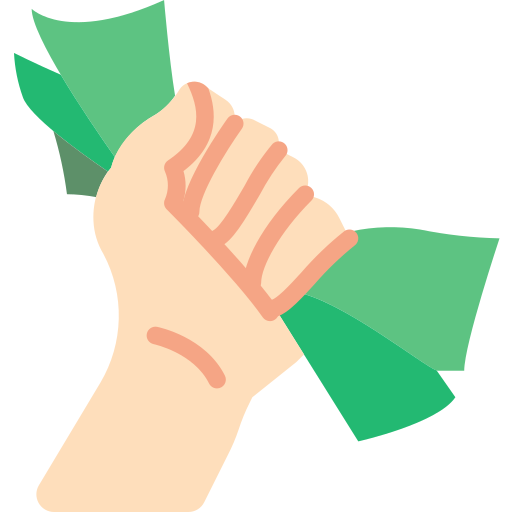
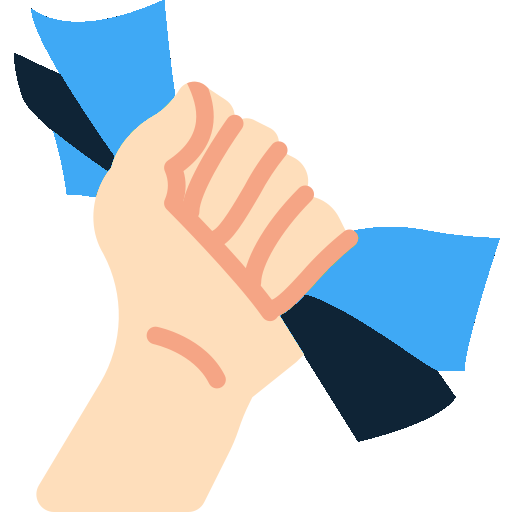
lcr

Changed region(s): [[0.5312, 0.4375, 0.9688, 0.875], [0.0312, 0.0, 0.3438, 0.4062]]

diff --git a/index.html b/index.html
@@ -36,23 +36,19 @@
   <h2 class="h1-fond">Nos Services</h2>
 
     <div class="ongletacc">
+
       <div class="onglet1">
     <p class="titre-onglet">Pronostics</p>
-    <p class="txt-onglet">Lorem ipsum dolor sit, amet consectetur adipisicing elit. Nisi rem fuga ab nesciunt voluptates tempora aspernatur possimus magnam. Porro ratione dolor iusto consequatur minima ex atque. Beatae soluta atque consequuntur?</p>
+    <p class="txt-onglet">LCRBET propose des pronostics sportifs sur différent sports, principalement le hockey sur glace et le foot, un suivi est également disponible. Les pronostics sont certains aussi issu de l'algorithme.<br> <br>Les pronostics sont 100% gratuit. </p>
     <a href="ps.html"class="btn-ong">Découvrir les pronostics</a>
-    
     </div>
+    <img src="img/betting.png" alt="" class="img-hero-bett">
       <div class="onglet2">
     <p class="titre-onglet">Algorithme de prédiction</p>
-    <p class="txt-onglet">Lorem ipsum dolor sit, amet consectetur adipisicing elit. Nisi rem fuga ab nesciunt voluptates tempora aspernatur possimus magnam. Porro ratione dolor iusto consequatur minima ex atque. Beatae soluta atque consequuntur?</p>
+    <p class="txt-onglet">L'Algorithme de prédiction est basé sur la NHL, il propose des stats général sur le match ainsi que des statistiques sur chaque équipes. Totalement gratiut il vous permettra de trouver vos inspiration pour vos paris sportifs NHL.<br><br>Pour le moment 2 équipes sont disponibles.</p>
     <a href="algo.html"class="btn-ong2"> Découvrir l'Algorithme</a>
-    
       </div>
-      <div class="onglet3">
-     <p class="titre-onglet">Casino</p>
-     <p class="txt-onglet">Lorem ipsum dolor sit, amet consectetur adipisicing elit. Nisi rem fuga ab nesciunt voluptates tempora aspernatur possimus magnam. Porro ratione dolor iusto consequatur minima ex atque. Beatae soluta atque consequuntur?</p>
-     <a href="casino.html"class="btn-ong">Découvrir le bilan</a>
-      </div>
+
     </div>
 
 
@@ -65,18 +61,18 @@
         </div>
         <div class="carre2">
           <p class="h1-res">Cote moyenne</p>
-          <p class="p-res-modif">0</p>
+          <p class="p-res-modif">0.O</p>
         </div>
         <div class="carre3">
           <p class="h1-res">Win rate</p>
-          <p class="p-res">0</p>
+          <p class="p-res">0%</p>
         </div>
         <div class="carre4">
           <p class="h1-res">Bénéfices</p>
-          <p class="p-res">0</p>
+          <p class="p-res">0€</p>
         </div> 
       </div>    
-      <h2 class="h2-res">La totalités des résultats par mois sont disponibles dans l'onglet paris sportif</h2>
+      <h2 class="h2-res">La totalités des résultats par mois sont disponibles dans l'onglet "paris sportif"</h2>
       <a href="ps.html"class="btn-ong-res">Découvrir les résultats</a>
     </div>
 

diff --git a/css/style.css b/css/style.css
@@ -10,14 +10,14 @@
 
 /* Scrollbar -------------------------------- */
 ::-webkit-scrollbar {
-  width: 15px;
+  width: 12px;
 }
 ::-webkit-scrollbar-thumb {
-  background: #EC6EAD; 
+  background: #3fa9f5; 
   border-radius: 10px;
 }
 ::-webkit-scrollbar-thumb:hover {
-  background: #ec6eadc3; 
+  background: #0f2436; 
 }
 
 
@@ -42,14 +42,10 @@ color: black;
 .ongletacc{
     display: flex;
     justify-content: center;
-    align-items: center;
-    width: 100%;
-    height: 310px;
-
+    justify-content: space-evenly;
 }
 
 .onglet1{
-    float: left;
     width: 500px;
     height: 310px;
     background-color: #3fa9f5;
@@ -57,20 +53,10 @@ color: black;
 }
 
 .onglet2{
-    display: block;
-    margin: auto;
     width: 500px;
     height: 310px;
     background-color: #0f2436;
     color:  white;
-}
-
-.onglet3{
-    float: left;
-    width: 500px;
-    height: 310px;
-    background-color: #3fa9f5;
-    color: white; 
 }
 
 
@@ -147,6 +133,10 @@ color: black;
   }
 
 
+  .img-hero-bett{
+    width: 20%;
+  }
+
   /* onglet acc */
   
   .titre-onglet{
@@ -158,6 +148,10 @@ color: black;
     font-style: normal; 
   }
 
+
+  .acc-resultat{
+    margin-top: 5%;
+  }
 
   .txt-onglet{
     text-align: center;
@@ -311,31 +305,28 @@ color: black;
         display: flex;
         flex-direction: column;
         width: 100%;
-        height: 900px;
+        height: 520px;
     
     }
     
     .onglet1{
        width: 100%;
-        height: 300px;
+        height: 250px;
         background-color: #3fa9f5;
         color: white; 
     }
     
     .onglet2{
        width: 100%;
-        height: 300px;
+        height: 270px;
         background-color: #0f2436;
         color: white; 
         
     }
     
-    .onglet3{
-        width: 100%;
-        height: 300px;
-        background-color: #3fa9f5;
-        color: white; 
-    }
+    .img-hero-bett{
+        display: none
+      }
     
     .titre-onglet{
         font-size: 30px;

diff --git a/css/navbar-acc.css b/css/navbar-acc.css
@@ -23,11 +23,11 @@
     font-family: erbaum, sans-serif;
     font-weight: 400;
     font-style: normal;
-    font-size: 15px;
+    font-size: 20px;
 }
 
 .navbar-link > .nav-active {
-    color:#EC6EAD;
+    color:#3fa9f5;
     text-decoration: none;
     font-family: erbaum, sans-serif;
     font-weight: 400;
@@ -96,7 +96,7 @@ ul {
     .navbar-links {
         justify-content: center;
         background-color: white;
-        color: #3494E6;
+        color: #3fa9f5;
         display: flex;
         flex-direction: column;
         align-items: center;
@@ -124,10 +124,10 @@ ul {
         transform: translateX(0);
     }
     .navbar-link > a {
-        color: #3494E6;
+        color: #0f2436;
         display: block;
         padding: 1rem;
-        font-size: 1.6rem;
+        font-size: 1.8rem;
         transition:all .4s ease-in-out;
     }
     .navbar-link > a:hover {
@@ -154,7 +154,7 @@ ul {
         display: block;
         width: 45px;
         height: 4px;
-        background: #EC6EAD;
+        background: #0f2436;
         border-radius: 3px;
         transition: all .4s ease-in-out;
     }
@@ -169,7 +169,7 @@ ul {
         height: 4px;
         position: absolute;
         left: 0;
-        background: #3494E6;
+        background: #3fa9f5;
         border-radius: 3px;
         transition: all .4s ease-in-out;
     }
@@ -211,7 +211,7 @@ ul {
         content: "";
         width: 0;
         height: 3px;
-        background: #EC6EAD;
+        background: #3fa9f5;
         transition:width .4s;
     }
     .navbar-link:hover > a:after {

diff --git a/ps.html b/ps.html
@@ -33,7 +33,7 @@
 
     <div class="hero">
         <h1 class="h1-hero">PRONOSTICS</h1>
-        <h2 class="h2-hero-ps ">Les pronostics sont 100% gratuit et sont postés sur deux plateformes différentes, choississez celle qui vous convient ! </h2>
+        <h2 class="h2-hero-ps ">Nos pronostics sont disponibles sur Discord et Twitter ( Discord permet de discuter avec la commu en + ). <br> 100% gratuit. </h2>
       </div>
 
 

diff --git a/css/style-ps.css b/css/style-ps.css
@@ -50,7 +50,7 @@ margin-top: 1%;
     font-style: normal;
     font-size: 20px;
     text-align: center;
-    width: 400px;
+    width: 600px;
     color: black;
   }
 
